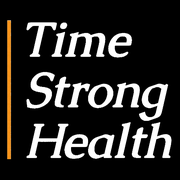
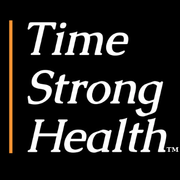
feat: use the new TM wordmarks
Replace the site logos with the supplied TM lockups. The light logo is transparent PNG and WebP with the white background removed, and the dark logo is the black-background file unchanged.

diff --git a/src/components/SiteLogo.tsx b/src/components/SiteLogo.tsx
@@ -3,10 +3,22 @@ import { cn } from "@/lib/utils";
 
 type SiteLogoProps = {
   className?: string;
-  /** Force the dark wordmark (white + orange on black), e.g. always-dark footer. */
+  /** Force one lockup. The footer is always black, so it uses the dark logo. */
   force?: "light" | "dark";
   priority?: boolean;
 };
+
+const lightLogo = {
+  src: "/logo-wordmark.png",
+  width: 985,
+  height: 804,
+} as const;
+
+const darkLogo = {
+  src: "/logo-dark.png",
+  width: 363,
+  height: 305,
+} as const;
 
 export function SiteLogo({
   className,
@@ -18,10 +30,8 @@ export function SiteLogo({
   if (force === "dark") {
     return (
       <Image
-        src="/logo-dark.png"
+        {...darkLogo}
         alt="Time Strong Health"
-        width={220}
-        height={186}
         className={imgClass}
         priority={priority}
       />
@@ -31,10 +41,8 @@ export function SiteLogo({
   if (force === "light") {
     return (
       <Image
-        src="/logo-wordmark.png"
+        {...lightLogo}
         alt="Time Strong Health"
-        width={220}
-        height={186}
         className={imgClass}
         priority={priority}
       />
@@ -44,18 +52,14 @@ export function SiteLogo({
   return (
     <>
       <Image
-        src="/logo-wordmark.png"
+        {...lightLogo}
         alt="Time Strong Health"
-        width={220}
-        height={186}
         className={cn(imgClass, "dark:hidden")}
         priority={priority}
       />
       <Image
-        src="/logo-dark.png"
+        {...darkLogo}
         alt=""
-        width={220}
-        height={186}
         className={cn(imgClass, "hidden dark:block")}
         priority={priority}
         aria-hidden
